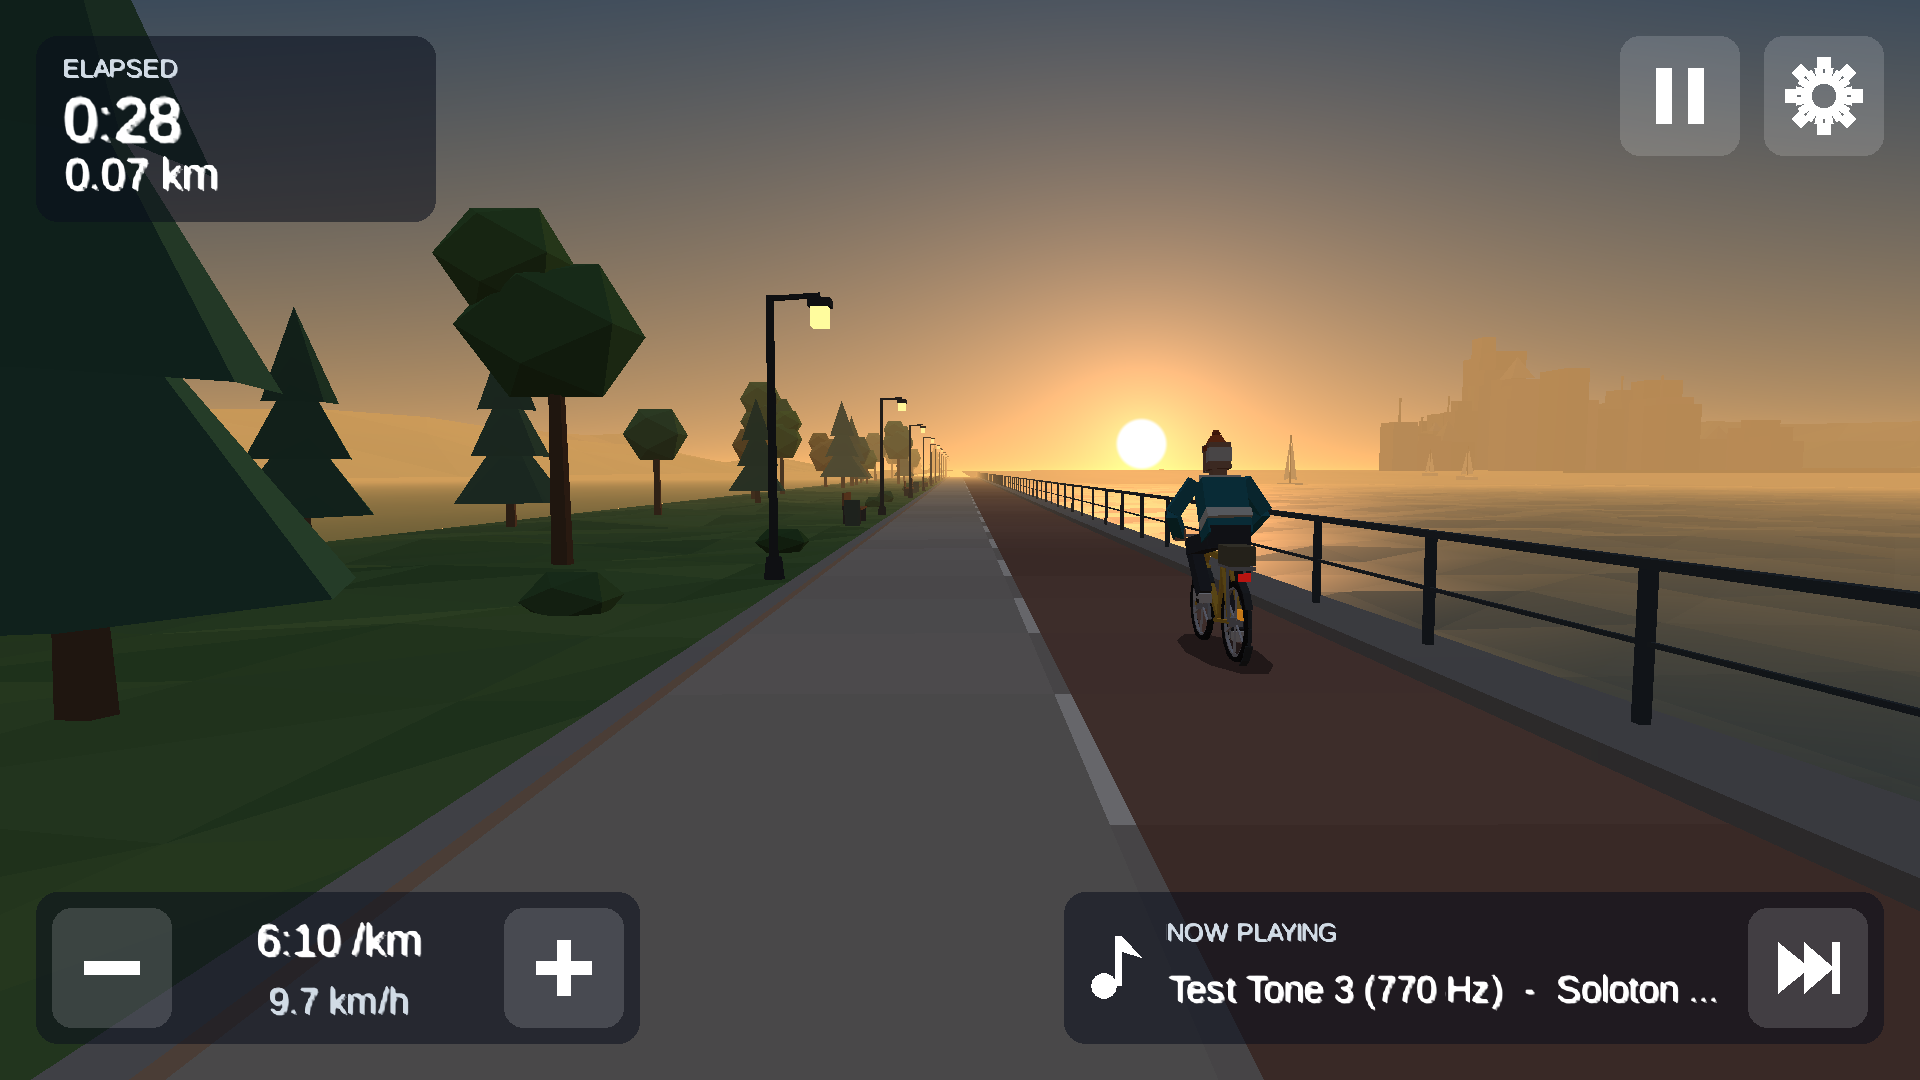
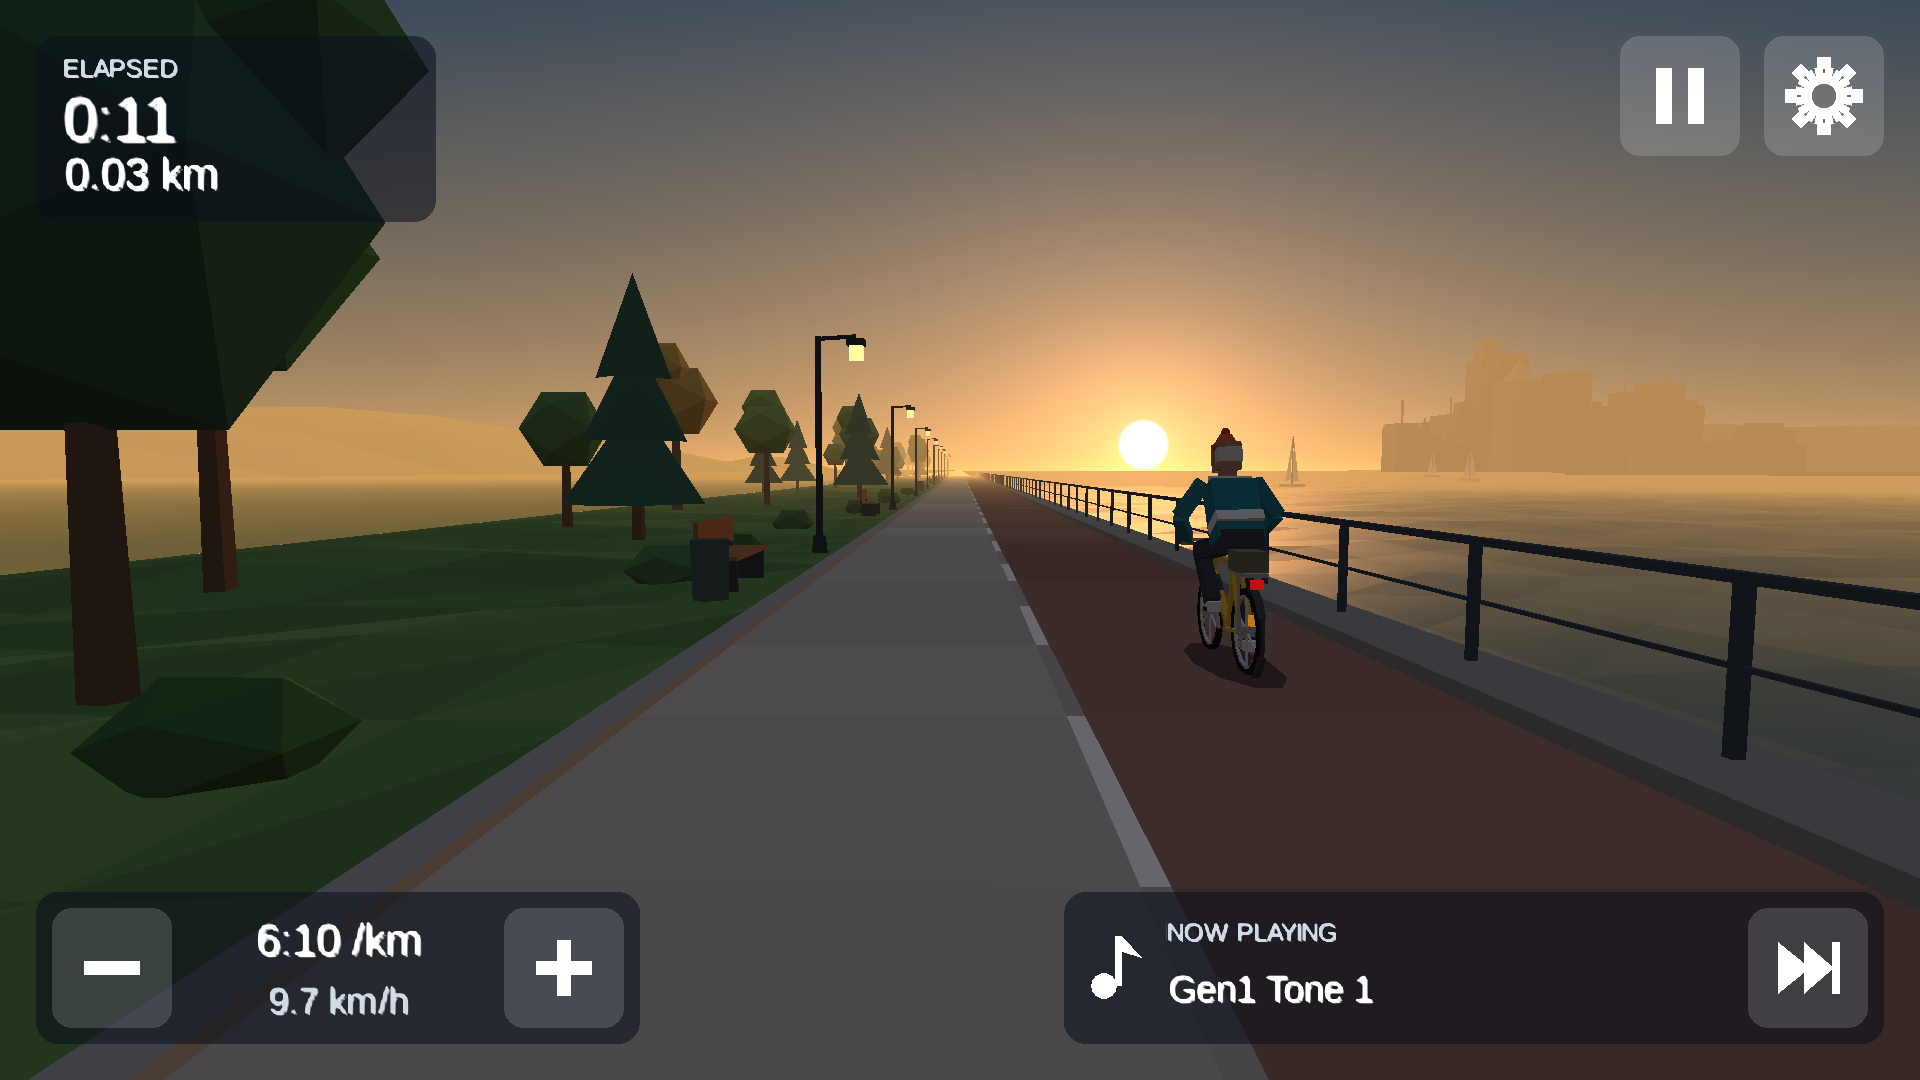
Target the Peloton gen 1 tablet spec with a matching emulator profile
docs/DEVICE.md records the gen 1 tablet spec with sources (API 24,
1920x1080, MT8173, 2 GB) and the 160 dpi density assumption.
scripts/gen1-emulator.sh boots an emulator shaped like it, and the CI
smoke test now uses the same profile. The music settings screen sizes
itself from screen height so text and touch targets stay large at low
density. Bike installs and the cadence work are out of scope for now.

diff --git a/libs/music/src/main/kotlin/dev/soloton/music/MusicSettingsActivity.kt b/libs/music/src/main/kotlin/dev/soloton/music/MusicSettingsActivity.kt
@@ -161,12 +161,12 @@ class MusicSettingsActivity : BikeActivity() {
 
         left.addView(text(getString(R.string.soloton_music_type_path), 20f), margins(top = 16))
         pathInput = EditText(this).apply {
-            setTextSize(TypedValue.COMPLEX_UNIT_SP, 22f)
+            setTextSize(TypedValue.COMPLEX_UNIT_PX, px(22f * TEXT_SCALE))
             setTextColor(Color.WHITE)
             setSingleLine(true)
             inputType = InputType.TYPE_CLASS_TEXT or InputType.TYPE_TEXT_FLAG_NO_SUGGESTIONS or InputType.TYPE_TEXT_VARIATION_URI
             imeOptions = EditorInfo.IME_ACTION_DONE or EditorInfo.IME_FLAG_NO_EXTRACT_UI
-            minHeight = TOUCH
+            minHeight = touch
             setOnEditorActionListener { v, actionId, _ ->
                 if (actionId == EditorInfo.IME_ACTION_DONE) {
                     useFolder(v.text.toString())
@@ -200,7 +200,7 @@ class MusicSettingsActivity : BikeActivity() {
         adapter = object : ArrayAdapter<String>(this, 0, ArrayList()) {
             override fun getView(position: Int, convertView: View?, parent: ViewGroup): View {
                 val tv = (convertView as? TextView) ?: text("", 26f).apply {
-                    minHeight = TOUCH
+                    minHeight = touch
                     gravity = Gravity.CENTER_VERTICAL
                     setPadding(dp(16), 0, dp(16), 0)
                 }
@@ -223,19 +223,19 @@ class MusicSettingsActivity : BikeActivity() {
 
     private fun text(value: String, sp: Float, bold: Boolean = false) = TextView(this).apply {
         text = value
-        setTextSize(TypedValue.COMPLEX_UNIT_SP, sp)
+        setTextSize(TypedValue.COMPLEX_UNIT_PX, px(sp * TEXT_SCALE))
         setTextColor(Color.WHITE)
         if (bold) typeface = Typeface.DEFAULT_BOLD
     }
 
     private fun button(label: String, onClick: () -> Unit) = Button(this).apply {
         text = label
-        setTextSize(TypedValue.COMPLEX_UNIT_SP, 22f)
+        setTextSize(TypedValue.COMPLEX_UNIT_PX, px(22f * TEXT_SCALE))
         isAllCaps = false
-        minHeight = TOUCH
-        minimumHeight = TOUCH
-        minWidth = TOUCH * 2
-        minimumWidth = TOUCH * 2
+        minHeight = touch
+        minimumHeight = touch
+        minWidth = touch * 2
+        minimumWidth = touch * 2
         setOnClickListener { onClick() }
     }
 
@@ -243,11 +243,24 @@ class MusicSettingsActivity : BikeActivity() {
         ViewGroup.LayoutParams.WRAP_CONTENT, ViewGroup.LayoutParams.WRAP_CONTENT,
     ).apply { setMargins(dp(left), dp(top), 0, 0) }
 
-    private fun dp(value: Int): Int = (value * resources.displayMetrics.density).toInt()
+    /**
+     * Sizes scale with the screen's pixel height rather than its density, so the layout is
+     * the same physical size on the bike whatever density the tablet reports (see docs/DEVICE.md).
+     * One unit is one pixel on a 1080-line screen.
+     */
+    private val unit: Float by lazy {
+        val m = resources.displayMetrics
+        minOf(m.widthPixels, m.heightPixels) / 1080f
+    }
+    private val touch: Int by lazy { px(TOUCH_UNITS).toInt() }
+    private fun px(units: Float): Float = units * unit
+    private fun dp(value: Int): Int = px(value * 1.5f).toInt()
 
     companion object {
-        /** Minimum touch target in pixels (plan: 96 px). */
-        private const val TOUCH = 96
+        /** Touch target height in units (pixels on a 1080-line screen); the plan's minimum is 96. */
+        private const val TOUCH_UNITS = 112f
+        /** Converts the sp-style sizes used above to units: 22 becomes 30 px on a 1080-line screen. */
+        private const val TEXT_SCALE = 1.36f
         private val BACKGROUND = Color.rgb(0x16, 0x1A, 0x22)
         private val WARNING = Color.rgb(0xFF, 0xC1, 0x4D)
 

diff --git a/docs/PLAN.md b/docs/PLAN.md
@@ -21,7 +21,7 @@ This file is the brief for implementing agents. Each work package (WP) lists wha
 
 - **No network use.** Apps in this repo work offline. If a later app needs HTTPS, note that API 24 does not trust the ISRG Root X1 (Let's Encrypt) root, so it must be bundled through `network_security_config`.
 - **The repo is public** (`github.com/jasonsperske/soloton`). Anyone must be able to clone, build, and fork it: no secrets, keystores, personal paths, device serials, or machine-specific config in the repo; the build works with only a JDK and the Android SDK; CI passes on forks with no secrets set. Agents commit locally when the coordinator says so and do not push.
-- **Device facts are unverified.** Screen size, ABI, GL version, and free storage come from WP0, not from memory.
+- **Device facts** come from `docs/DEVICE.md`, which marks what is sourced and what is assumed (notably the 160 dpi density).
 - **Originality.** The first app is inspired by the idea of a boxer doing dawn roadwork behind a coach on a bicycle. It must be an original scene: do not reproduce the characters, names, outfits, palette, skyline composition, sprites, or music of Punch-Out!! or any other game.
 
 ## Progress site and coordinator files
@@ -63,8 +63,8 @@ Adding an app later means adding `apps/<name>/` ; CI discovers it automatically.
 
 ## Work packages
 
-### WP0 Device survey (needs the bike on adb; can run any time)
-Record in `docs/DEVICE.md`: `ro.build.version.sdk`, `ro.product.cpu.abilist`, display size and density, GL renderer and version (`dumpsys SurfaceFlinger`), free storage, whether `/sdcard/Music` is readable, and installed Peloton packages (`pm list packages | grep -i peloton`). If the bike is unreachable, say so and leave the file as a checklist. Read-only: install nothing, change no settings.
+### WP0 Target device spec (done)
+The owner installs builds themselves; agents never install on the bike. Code targets the gen 1 tablet spec in `docs/DEVICE.md`, and `scripts/gen1-emulator.sh` boots an emulator shaped like it (API 24, 1920x1080, 160 dpi, 2 GB, 4 cores). "Works on the device" means works on that emulator; CI's smoke test uses the same profile.
 
 ### WP1 Monorepo scaffold (first; everything depends on it)
 Owns root Gradle files, `build-logic/`, `libs/platform/`, `.gitignore`, `README.md`, `docs/BUILDING.md`, `docs/ADDING_AN_APP.md`. `docs/BUILDING.md` gives a newcomer the exact prerequisites (JDK version, Android SDK packages) and commands to build and run each app from a fresh clone; keep the README status section current. Creates `apps/roadwork` with the three modules and a spinning-cube placeholder.
@@ -104,11 +104,11 @@ Music is files the user copies onto the tablet. There is no network source, so t
 Done when: unit tests cover the scan, shuffle-without-repeat, and the failure cap against a temp folder; an instrumented test on an API 24 emulator plays a bundled test tone from a configured folder and survives the folder being changed and being emptied.
 
 ### WP5 Integration and device pass (after WP3 and WP4)
-Owns `apps/roadwork/android`. Wires the scene, music, immersive mode, icon, and app label. Runs on an API 24 emulator in CI (boot, launch, screenshot, no crash for 60 s). If the bike is on adb: install, record frame rate, check touch targets, confirm audio, and note results in `docs/DEVICE.md`.
+Owns `apps/roadwork/android`. Wires the scene, music, immersive mode, icon, and app label. Runs on an API 24 emulator in CI (boot, launch, screenshot, no crash for 60 s). Verified on the gen 1 emulator profile (see WP0).
 Done when: the CI-built APK installs and runs on API 24, the skip button changes tracks, and changing the music folder in settings takes effect without restarting.
 
-### WP6 Bike cadence as pace (optional, after WP0)
-Research spike first, code second. Find out whether the gen 1 tablet exposes cadence, resistance, or power to third-party apps, using open-source projects such as Grupetto as references and the package list from WP0. Deliver a one-page finding in `docs/DEVICE.md`. Only if there is a supported route, implement `libs/bike` with a `PaceSource` that maps cadence to speed and falls back to the default pace when the service is missing.
+### WP6 Bike cadence as pace (parked)
+Research is in `docs/BIKE_SENSORS.md`. A cadence `PaceSource` cannot be tested without the real bike's sensor service, so it is parked until the owner asks for it.
 
 ## Order of work
 
@@ -116,17 +116,19 @@ Research spike first, code second. Find out whether the gen 1 tablet exposes cad
 WP1 ──┬── WP2
       ├── WP3 ──┐
       └── WP4 ──┴── WP5
-WP0 (any time) ──── WP6 (optional)
+WP0 (spec + gen 1 emulator)      WP6 (parked)
 ```
 
-Wave 1: WP1 alone. Wave 2: WP2, WP3, WP4 in parallel, each in its own worktree. Wave 3: WP5. WP0 and WP6 whenever the bike is reachable.
+Wave 1: WP1 alone. Wave 2: WP2, WP3, WP4 in parallel, each in its own worktree. Wave 3: WP5. All done; the MVP runs on the gen 1 emulator.
+
+Next: more Roadwork levels, from the owner's designs.
 
 ## Rules for every agent
 
 - Stay inside the paths your WP owns. Shared files (`libs.versions.toml`, `settings.gradle.kts`) change only through WP1 or the coordinator.
 - Verify library versions and minimum API levels against current documentation instead of memory.
 - Report what was run and what the output was. A step that could not be run (no device, no network) is reported as not run.
-- No pushing, no repo creation, no secrets in the repo, nothing installed on the bike outside WP5 and WP0's read-only survey.
+- No pushing, no repo creation, no secrets in the repo, nothing installed on the bike, ever: the owner does that.
 
 ## Open decisions for the user
 

diff --git a/docs/DEVICE.md b/docs/DEVICE.md
@@ -1,0 +1,38 @@
+# Target device: Peloton Bike gen 1 tablet
+
+Apps in this repo target the touchscreen on the original (non-plus) Peloton Bike, in its Android 7.0 era: tablet models PLTN-RB1VQ and PLTN-RB1VO, which a third-party guide describes as essentially the same.
+
+## Specs we design for
+
+| Spec | Value | Confidence |
+|---|---|---|
+| Android | 7.0, API 24 | Stated by the owner; matches the generation guide below |
+| Screen | 21.5", 1920x1080, landscape, touch | Size and "HD" from the guide; 1080p from launch coverage of the bike |
+| Pixel density | about 102 dpi physical. We assume Android reports **160 dpi (mdpi)** | Assumption: no source gives the reported density |
+| Processor | MediaTek MT8173: 2x Cortex-A72 + 2x Cortex-A53, 64-bit ARM, 2.0 GHz | Third-party guide, not per model; unverified on this exact tablet |
+| GPU | PowerVR GX6250, as on other MT8173 devices | Inferred from the SoC; unverified |
+| RAM / storage | 2 GB / 16 GB | Third-party guide |
+| Audio | 2 channels, 2x10 W speakers | Third-party guide |
+| Google services | None | Peloton firmware ships without Play Services |
+
+Sources: [Wellfit Insider, Peloton bike generations](https://wellfitinsider.com/peloton/peloton-bike-generations/), [Digital Trends](https://www.digitaltrends.com/mobile/peloton-bike-brings-studio-classes-into-the-home-with-android-tablet/) and [CNX Software](https://www.cnx-software.com/2013/06/26/android-now-comes-to-exercise-bikes-thanks-to-the-peloton-bike/) (launch-era hardware; the panel carried over). Peloton's own spec page could not be read (HTTP 401).
+
+## What this means for code
+
+- **API 24 only features.** No adaptive icons (fallback icon required), no FLAC decoding (added in 8.1), no Let's Encrypt root for HTTPS, runtime storage permission.
+- **Graphics.** Target OpenGL ES 2.0 even though the GPU likely supports more. A 1080p fill rate on a mid-2015 tablet GPU is the main cost: avoid full-screen overdraw, post-processing, MSAA and per-pixel lighting. Budget per frame: under about 150 draw calls and about 60k triangles; the roadwork scene uses 19 and about 14k. Hold 30 fps or better.
+- **Memory.** 2 GB shared with the Peloton system services. Keep an app under about 256 MB of heap plus textures; prefer vertex colours to textures.
+- **ABIs.** Ship `arm64-v8a` and `armeabi-v7a`; `x86_64` is for the emulator only.
+- **Touch and layout.** The screen is big and about arm's length away; at the assumed 160 dpi, 1 dp = 1 px, and 1 px is about 0.25 mm on this panel. Make touch targets at least 96 px (about 24 mm) and text at least 28 px.
+
+## The gen 1 emulator
+
+`scripts/gen1-emulator.sh` creates and starts an Android 7.0 emulator shaped like this tablet: API 24, 1920x1080 landscape, 160 dpi, 2 GB RAM, 4 cores. It uses an x86_64 system image because ARM images are too slow to emulate. CI's smoke test uses the same profile.
+
+What the emulator cannot tell us: real GPU speed (it renders in software, so its frame rate is a rough lower bound for CPU work, not a GPU benchmark), real touch feel, speaker output, and Peloton system services.
+
+```bash
+scripts/gen1-emulator.sh            # create if needed, boot headless, wait for boot, apply display settings
+scripts/gen1-emulator.sh --window   # same, with a window
+scripts/gen1-emulator.sh --stop     # shut it down
+```
